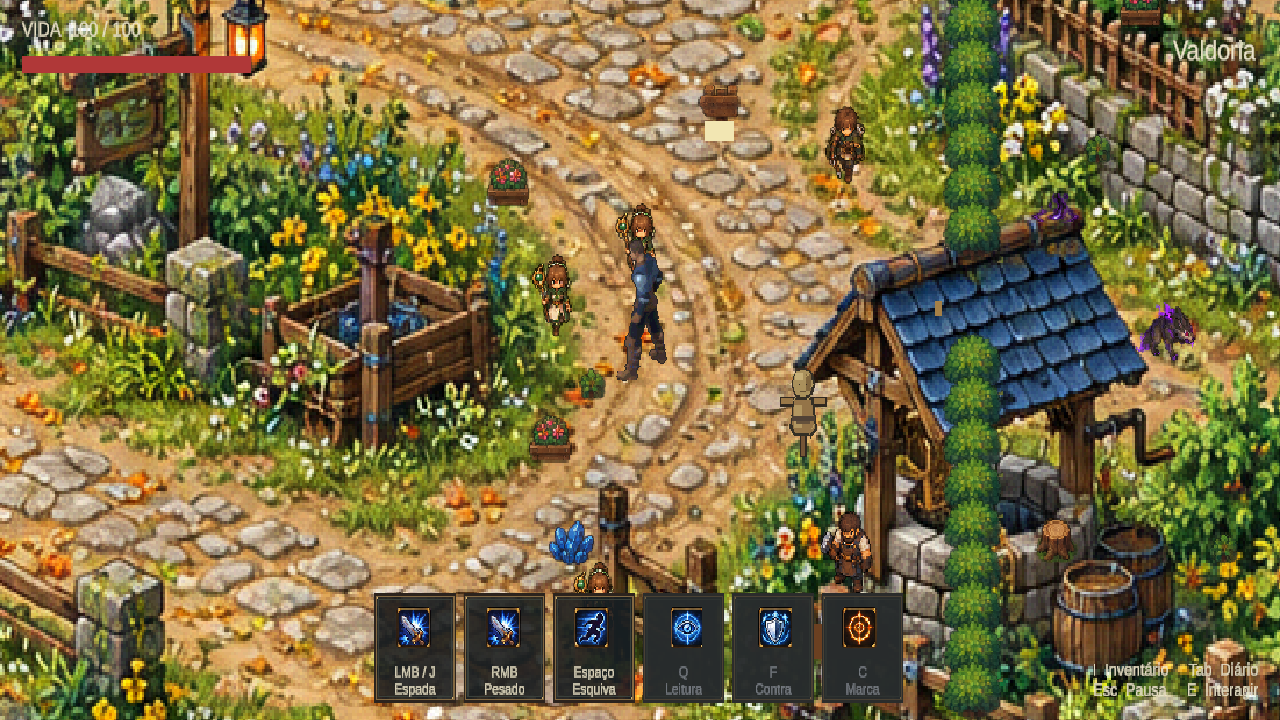
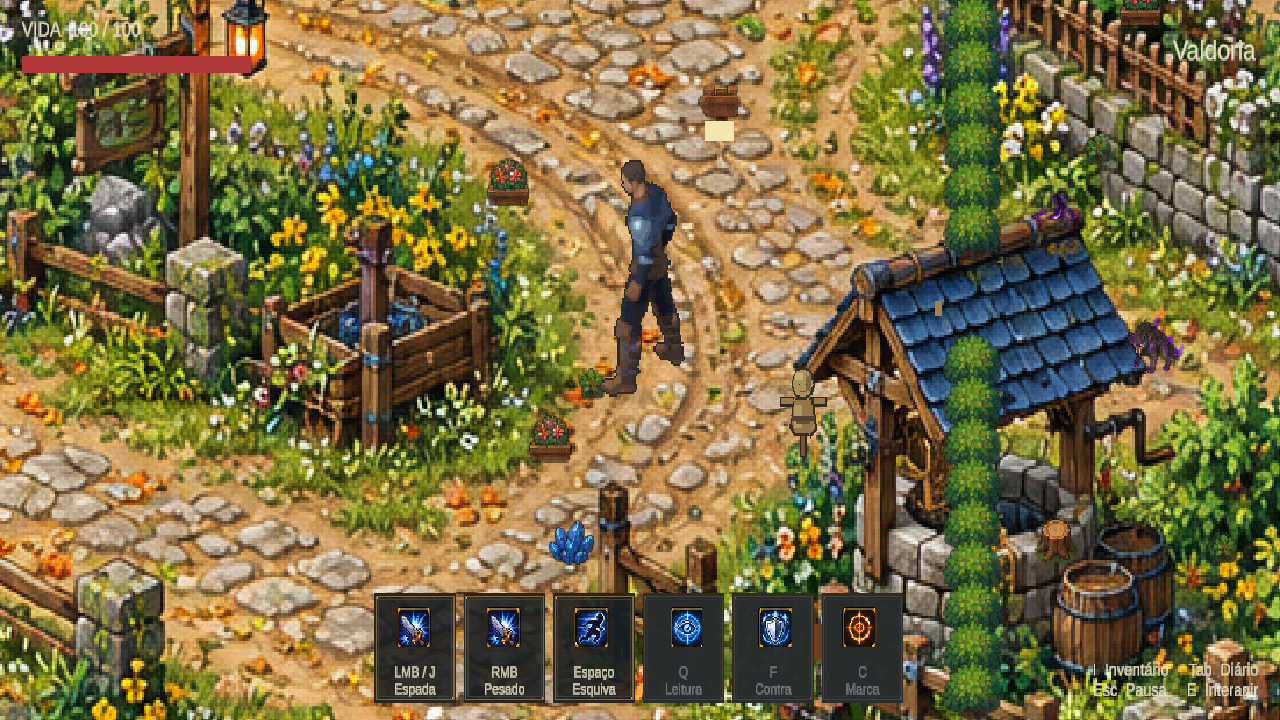
Calibrate player size against well and temporarily hide NPCs

diff --git a/AgentScripts/CalibratePlayerToWellR10.cs b/AgentScripts/CalibratePlayerToWellR10.cs
@@ -1,0 +1,40 @@
+using System;
+using System.Linq;
+using System.IO;
+using Mmorpg.Runtime;
+using UnityEditor;
+using UnityEditor.SceneManagement;
+using UnityEngine;
+using UnityEngine.SceneManagement;
+
+public static class CalibratePlayerToWellR10
+{
+    static readonly string[] NpcSprites={"Healer_","Hunter_","Smith_","Scholar_"};
+    public static string Apply()
+    {
+        var scene=SceneManager.GetActiveScene();
+        if(EditorApplication.isPlaying||scene.path!="Assets/Mmorpg/Scenes/MmorpgWorld.unity"||scene.isDirty)
+            throw new InvalidOperationException("Clean official scene outside Play required");
+        var player=GameObject.Find("Player");
+        var root=player.GetComponent<ProductionSpriteAnimator>().Body.transform.parent;
+        Undo.RecordObject(root,"Calibrate protagonist to well");root.localScale=Vector3.one*1.25f;
+        var candidates=UnityEngine.Object.FindObjectsByType<SpriteRenderer>(FindObjectsInactive.Include)
+            .Where(r=>r.gameObject.scene==scene && !r.transform.IsChildOf(player.transform) && r.sprite!=null && NpcSprites.Any(n=>r.sprite.name.StartsWith(n,StringComparison.Ordinal)))
+            .Select(r=>r.gameObject).Distinct().ToArray();
+        foreach(var npc in candidates){Undo.RecordObject(npc,"Temporarily hide NPC for scale review");npc.SetActive(false);EditorUtility.SetDirty(npc);}
+        // Hide NPC labels/interactions as well as the older duplicate body renderers.
+        string[] names={"Mira —", "Orin —", "Helena —", "Brann —", "Dorin —", "Nera —"};
+        var roots=Resources.FindObjectsOfTypeAll<GameObject>().Where(g=>g.scene==scene&&names.Any(n=>g.name.StartsWith(n,StringComparison.Ordinal))).ToArray();
+        foreach(var npc in roots){Undo.RecordObject(npc,"Temporarily hide NPC");npc.SetActive(false);EditorUtility.SetDirty(npc);}
+        EditorUtility.SetDirty(root);EditorSceneManager.MarkSceneDirty(scene);
+        if(!EditorSceneManager.SaveScene(scene))throw new InvalidOperationException("Save failed");
+        return $"Player visual scale=1.25 (previous 0.75); map/camera unchanged; NPC sprite nodes disabled={candidates.Length}, named roots/labels disabled={roots.Length}. Undo/reactivation restores them; no deletion or save migration.";
+    }
+    public static string Audit()
+    {
+        var player=GameObject.Find("Player");var body=player.GetComponent<ProductionSpriteAnimator>().Body;
+        var visible=UnityEngine.Object.FindObjectsByType<SpriteRenderer>(FindObjectsInactive.Exclude).Where(r=>r.enabled&&r.sprite!=null&&NpcSprites.Any(n=>r.sprite.name.StartsWith(n,StringComparison.Ordinal))).ToArray();
+        if(visible.Length!=0||Mathf.Abs(body.transform.lossyScale.x-1.25f)>.001f)throw new InvalidOperationException("Scale/NPC visibility failed");
+        return $"frame={Time.frameCount}; bodyScale={body.transform.lossyScale}; visibleNPCs={visible.Length}; cameraSize={Camera.main.orthographicSize}; mapScale={GameObject.Find("GeneratedValdoriaEnvironmentR10").transform.localScale}; rootScale={player.transform.localScale}";
+    }
+}

diff --git a/Docs/Validation/ValdoriaWellProportionR10.md b/Docs/Validation/ValdoriaWellProportionR10.md
@@ -1,0 +1,9 @@
+# Proporção pelo poço — NPCs temporariamente ocultos
+
+17/10/2026. O usuário considerou o jogador pequeno após ampliar o mapa. Usando como referência visual a borda e a cobertura do poço, a escala do grupo visual passou de 0.75 para 1.25, aumento de aproximadamente 67%. Corpo, espada e dedos compartilham a escala. O mapa continua 1.74 e a câmera 7.03125; os desenhos/fontes não mudaram. A proporção aguarda avaliação artística do usuário.
+
+NPCs temporariamente desativados, sem apagar assets nem dados pessoais: 17 nós de sprites Healer/Hunter/Smith/Scholar e 10 objetos/etiquetas com nomes Mira, Orin, Helena, Brann, Dorin e Nera. A inatividade é serializada apenas na cena oficial; a reativação dos mesmos objetos restaura a apresentação. Enquanto ocultos, suas interações ficam indisponíveis; não foi implementada migração/reset de missões. O alvo de treino e os inimigos não são NPCs de conversa e permanecem.
+
+Ferramenta: `AgentScripts/CalibratePlayerToWellR10.cs`, métodos `Apply` e `Audit`. QA real na Unity 6000.6.5f1: autotick ativo, recompile/status up_to_date; início em MmorpgWorld com perfil temporário isolado, input de caminhada (0.708 unidades), walk → idle e avanço de frames. Audit em Play confirmou zero sprites de NPC ativos, corpo 1.25, raiz física 1, mapa 1.74 e câmera 7.03125. Console atual sem erros/avisos, sem falha de compilação. Play encerrado e configurações temporárias restauradas. Não houve regressão completa de combate; a origem LegacyGrip continua ligada à mão visual.
+
+![Captura real para avaliação de proporção](ValdoriaProductionR10/gameplay/well-reference125-no-npcs.png)
